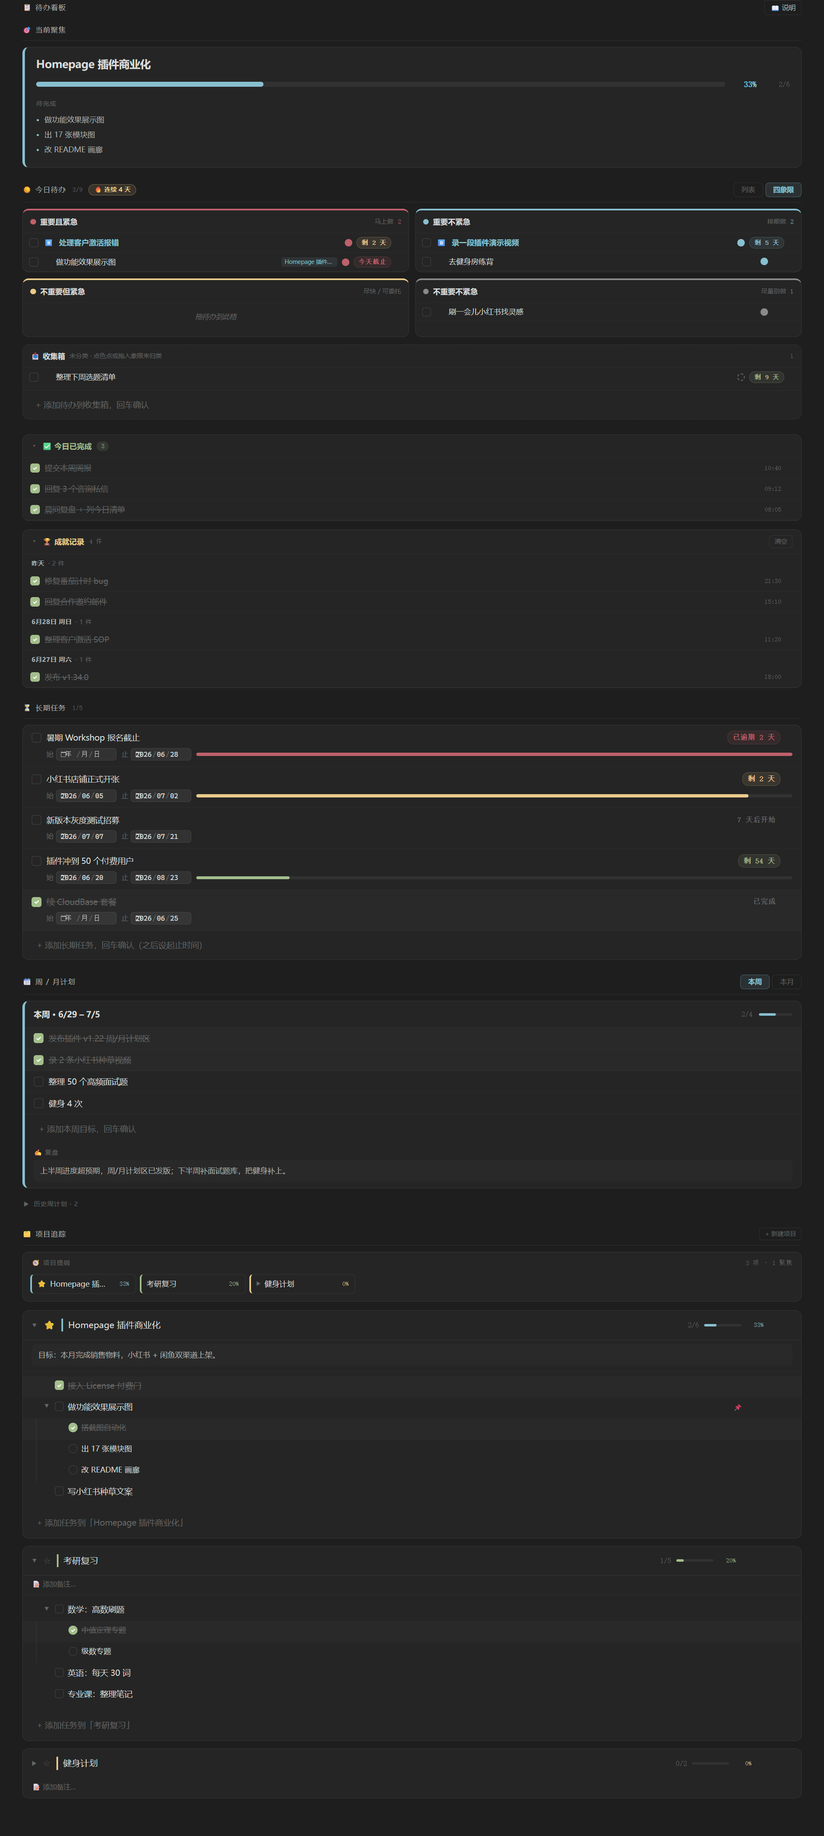
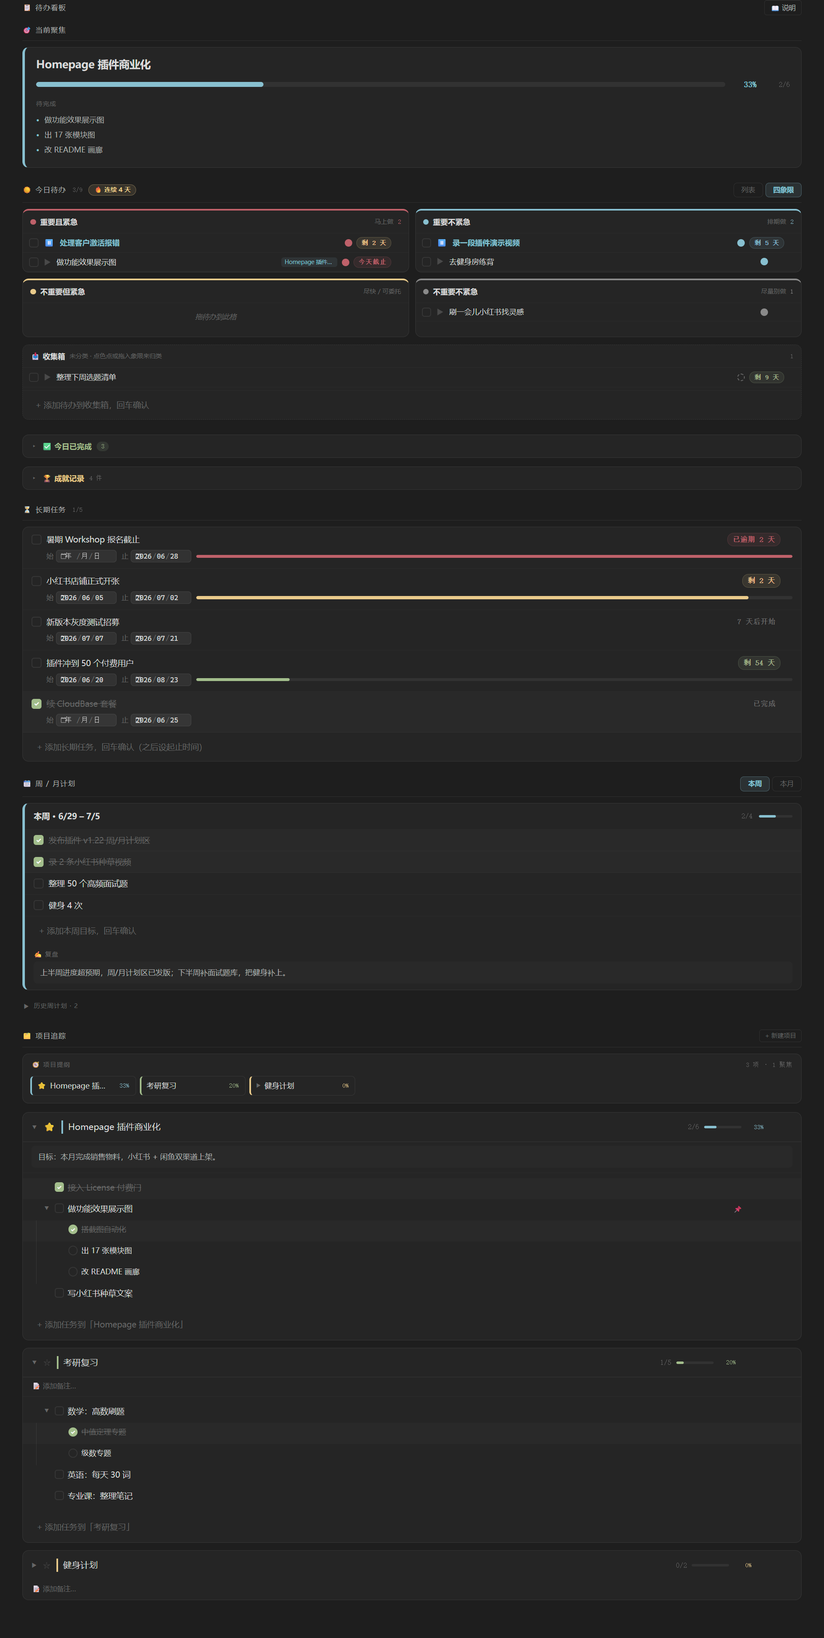
release v1.44.1 — 进行中按钮改默认常显（原先藏 hover 看不到）

diff --git a/main.js b/main.js
@@ -9937,9 +9937,9 @@ DataviewJS \u7248\u5B57\u6BB5\u517C\u5BB9\uFF0C\u65E7\u6570\u636E\u76F4\u63A5\u8
           font-weight:600; color:${te.color}; background:${te.color}1a;
           border:1px solid ${te.color}33; padding:1px 7px; border-radius:9px; cursor:pointer;`,A.title=`\u622A\u6B62 ${Z.due}\uFF08\u70B9\u51FB\u6539\uFF09`):Z.due?(A.textContent=Z.due.slice(5),A.style.cssText=`flex-shrink:0; font-size:10px; font-family:monospace;
           color:var(--text-faint); cursor:pointer; padding:1px 4px;`,A.title=`\u622A\u6B62 ${Z.due}\uFF08\u70B9\u51FB\u6539\uFF09`):(A.textContent="\u{1F4C5}",A.style.cssText=`flex-shrink:0; font-size:11px; cursor:pointer;
-          opacity:0; filter:grayscale(1); padding:0 2px; transition:opacity 0.12s;`,A.title="\u8BBE\u7F6E\u622A\u6B62\u65F6\u95F4",Q.addEventListener("mouseenter",()=>A.style.opacity="0.7"),Q.addEventListener("mouseleave",()=>A.style.opacity="0")),A.onclick=j=>{j.stopPropagation(),W(A,Z.due,async F=>{Z.due=F,await s(le),f()})},A}function B(Q,Z,le){let te=!!Z.doing,A=Q.createEl("div",{text:te?"\u23F8":"\u25B6"});A.title=te?"\u8FDB\u884C\u4E2D\uFF08\u70B9\u51FB\u505C\u6B62\uFF09":"\u6807\u8BB0\u4E3A\u8FDB\u884C\u4E2D",A.style.cssText=`flex-shrink:0; font-size:11px; line-height:1; cursor:pointer;
-        user-select:none; padding:0 2px; transition:opacity 0.12s, color 0.12s;
-        color:${te?We:"var(--text-faint)"}; opacity:${te?"1":"0"};`,te||(Q.addEventListener("mouseenter",()=>A.style.opacity="0.55"),Q.addEventListener("mouseleave",()=>A.style.opacity="0")),A.onclick=j=>{j.stopPropagation(),Z.doing?delete Z.doing:Z.doing=!0,c(le),f()}}function P(Q,Z,le){if(Q.length<2)return;let te=null,A=null,j=!0,F=null,U=G=>{let X=document.createElement("div");return X.style.cssText=`height:${G}px; border-radius:6px; margin:2px 0;
+          opacity:0; filter:grayscale(1); padding:0 2px; transition:opacity 0.12s;`,A.title="\u8BBE\u7F6E\u622A\u6B62\u65F6\u95F4",Q.addEventListener("mouseenter",()=>A.style.opacity="0.7"),Q.addEventListener("mouseleave",()=>A.style.opacity="0")),A.onclick=j=>{j.stopPropagation(),W(A,Z.due,async F=>{Z.due=F,await s(le),f()})},A}function B(Q,Z,le){let te=!!Z.doing,A=Q.createEl("div",{text:te?"\u23F8":"\u25B6"});A.title=te?"\u8FDB\u884C\u4E2D\uFF08\u70B9\u51FB\u505C\u6B62\uFF09":"\u6807\u8BB0\u4E3A\u8FDB\u884C\u4E2D",A.style.cssText=`flex-shrink:0; font-size:12px; line-height:1; cursor:pointer;
+        user-select:none; padding:0 2px; transition:color 0.12s;
+        color:${te?We:"var(--text-faint)"}; opacity:${te?"1":"0.55"};`,te||(A.onmouseenter=()=>A.style.color=We,A.onmouseleave=()=>A.style.color="var(--text-faint)"),A.onclick=j=>{j.stopPropagation(),Z.doing?delete Z.doing:Z.doing=!0,c(le),f()}}function P(Q,Z,le){if(Q.length<2)return;let te=null,A=null,j=!0,F=null,U=G=>{let X=document.createElement("div");return X.style.cssText=`height:${G}px; border-radius:6px; margin:2px 0;
           border:2px dashed rgba(136,192,208,0.5); background:${i.dragOver};`,X},V=()=>{F&&F.parentNode&&F.parentNode.removeChild(F),F=null};Q.forEach((G,X)=>{G.draggable=!0,G.addEventListener("dragstart",q=>{q.stopPropagation(),te=X,A=null,G.style.opacity="0.4",q.dataTransfer&&(q.dataTransfer.effectAllowed="move",q.dataTransfer.setData("text/plain",String(X))),F=U(G.getBoundingClientRect().height)}),G.addEventListener("dragend",()=>{G.style.opacity="1",V(),te=null,A=null}),G.addEventListener("dragover",q=>{if(q.preventDefault(),q.stopPropagation(),te===null||X===te)return;q.dataTransfer&&(q.dataTransfer.dropEffect="move");let Y=G.getBoundingClientRect();A=X,j=q.clientY<Y.top+Y.height/2,V(),F||(F=U(6)),j?G.parentNode?.insertBefore(F,G):G.parentNode?.insertBefore(F,G.nextSibling)}),G.addEventListener("drop",q=>{if(q.preventDefault(),q.stopPropagation(),V(),te===null||A===null||A===te)return;let Y=Z.splice(te,1)[0],ee=A>te?A-1:A;j||(ee+=1),ee=Math.max(0,Math.min(Z.length,ee)),Z.splice(ee,0,Y),le()})})}let J=null;function _(){let Q=e.closest(".markdown-preview-view, .cm-scroller, .view-content");if(!Q)return;e.style.width="",e.style.marginLeft="";let Z=Q.getBoundingClientRect(),le=e.getBoundingClientRect(),te=16,A=Z.width-te*2;A<=le.width+2||(e.style.width=A+"px",e.style.marginLeft=te-(le.left-Z.left)+"px")}function u(){if(J)return;let Q=e.closest(".markdown-preview-view, .cm-scroller, .view-content");Q&&(J=new ResizeObserver(()=>{window.requestAnimationFrame(_)}),J.observe(Q))}o.registerCleanup(()=>{J?.disconnect(),J=null});let m="week",b=!1,E=!1,D=o.config.view,L=D==="matrix"||D==="list"?D:o.plugin.settings.todoDefaultTodayView==="matrix"?"matrix":"list",$="due",h=!1,g=!1,y=!1;async function f(){let Q=await a();e.empty();let Z=e.createEl("div");Z.style.cssText=`display:flex; align-items:center; justify-content:space-between;
         gap:10px; flex-wrap:wrap; margin-bottom:16px;`,Z.createEl("div",{text:"\u{1F4CB} \u5F85\u529E\u770B\u677F"}).style.cssText="font-size:11px; text-transform:uppercase; letter-spacing:.12em; color:var(--text-muted);",Me(Z,t,"\u5F85\u529E\u770B\u677F",Il,i),z(Q),I(Q),N(Q),re(Q),ae(Q),_(),u()}function z(Q){let Z=Q.projects.filter(A=>A.focused).slice(0,2);if(Z.length===0)return;let le=e.createEl("div");le.style.cssText=`display:flex; align-items:center; justify-content:space-between;
         margin-bottom:10px; padding-bottom:8px; border-bottom:1px solid ${i.divider};`,le.createEl("span",{text:"\u{1F3AF} \u5F53\u524D\u805A\u7126"}).style.cssText="font-size:11px; text-transform:uppercase; letter-spacing:0.12em; color:var(--text-muted);";let te=e.createEl("div");te.style.cssText=`display:grid; gap:12px; margin-bottom:24px;